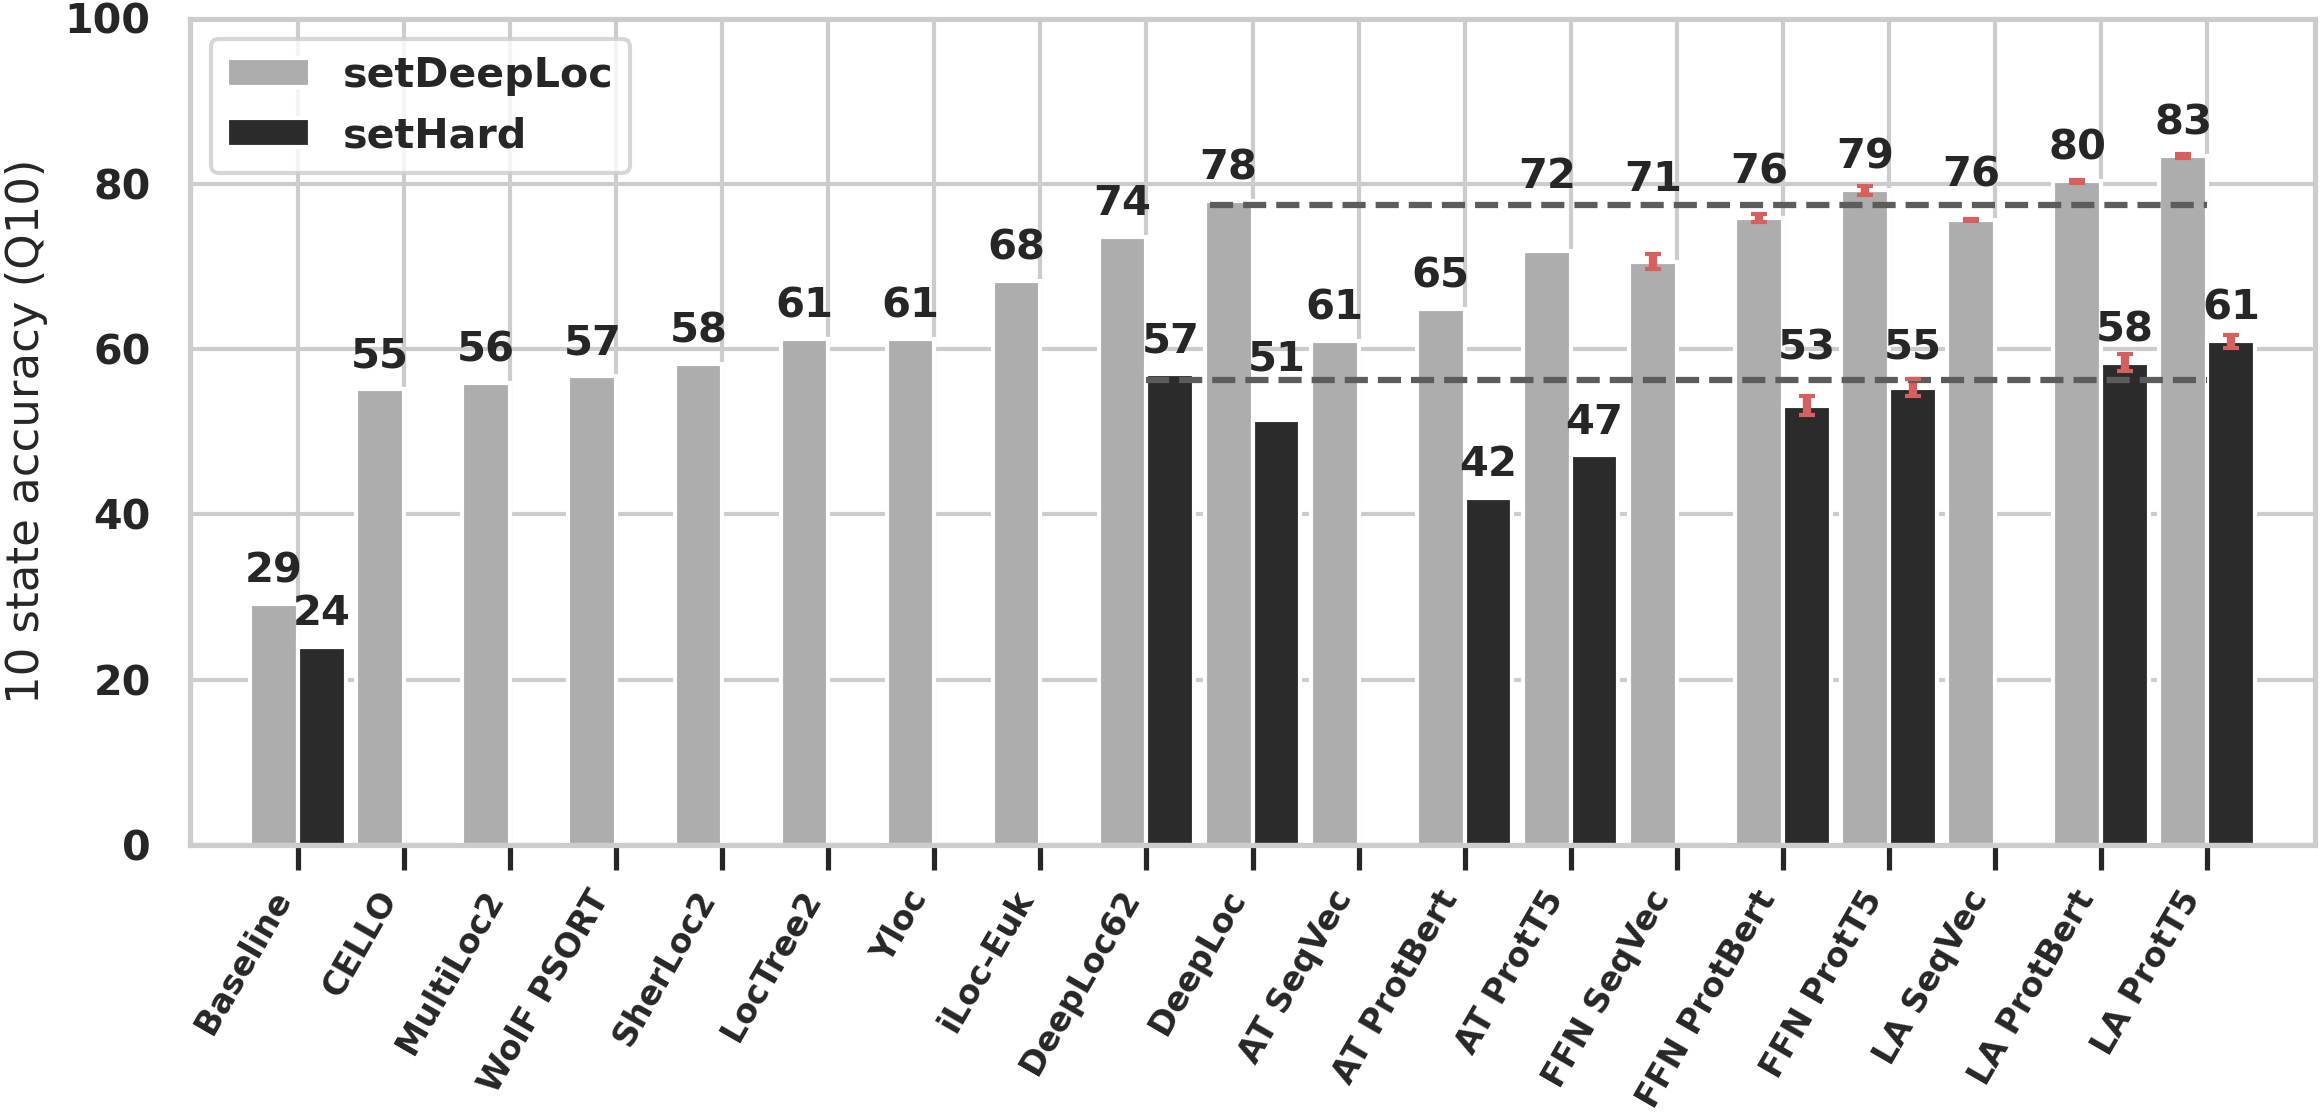
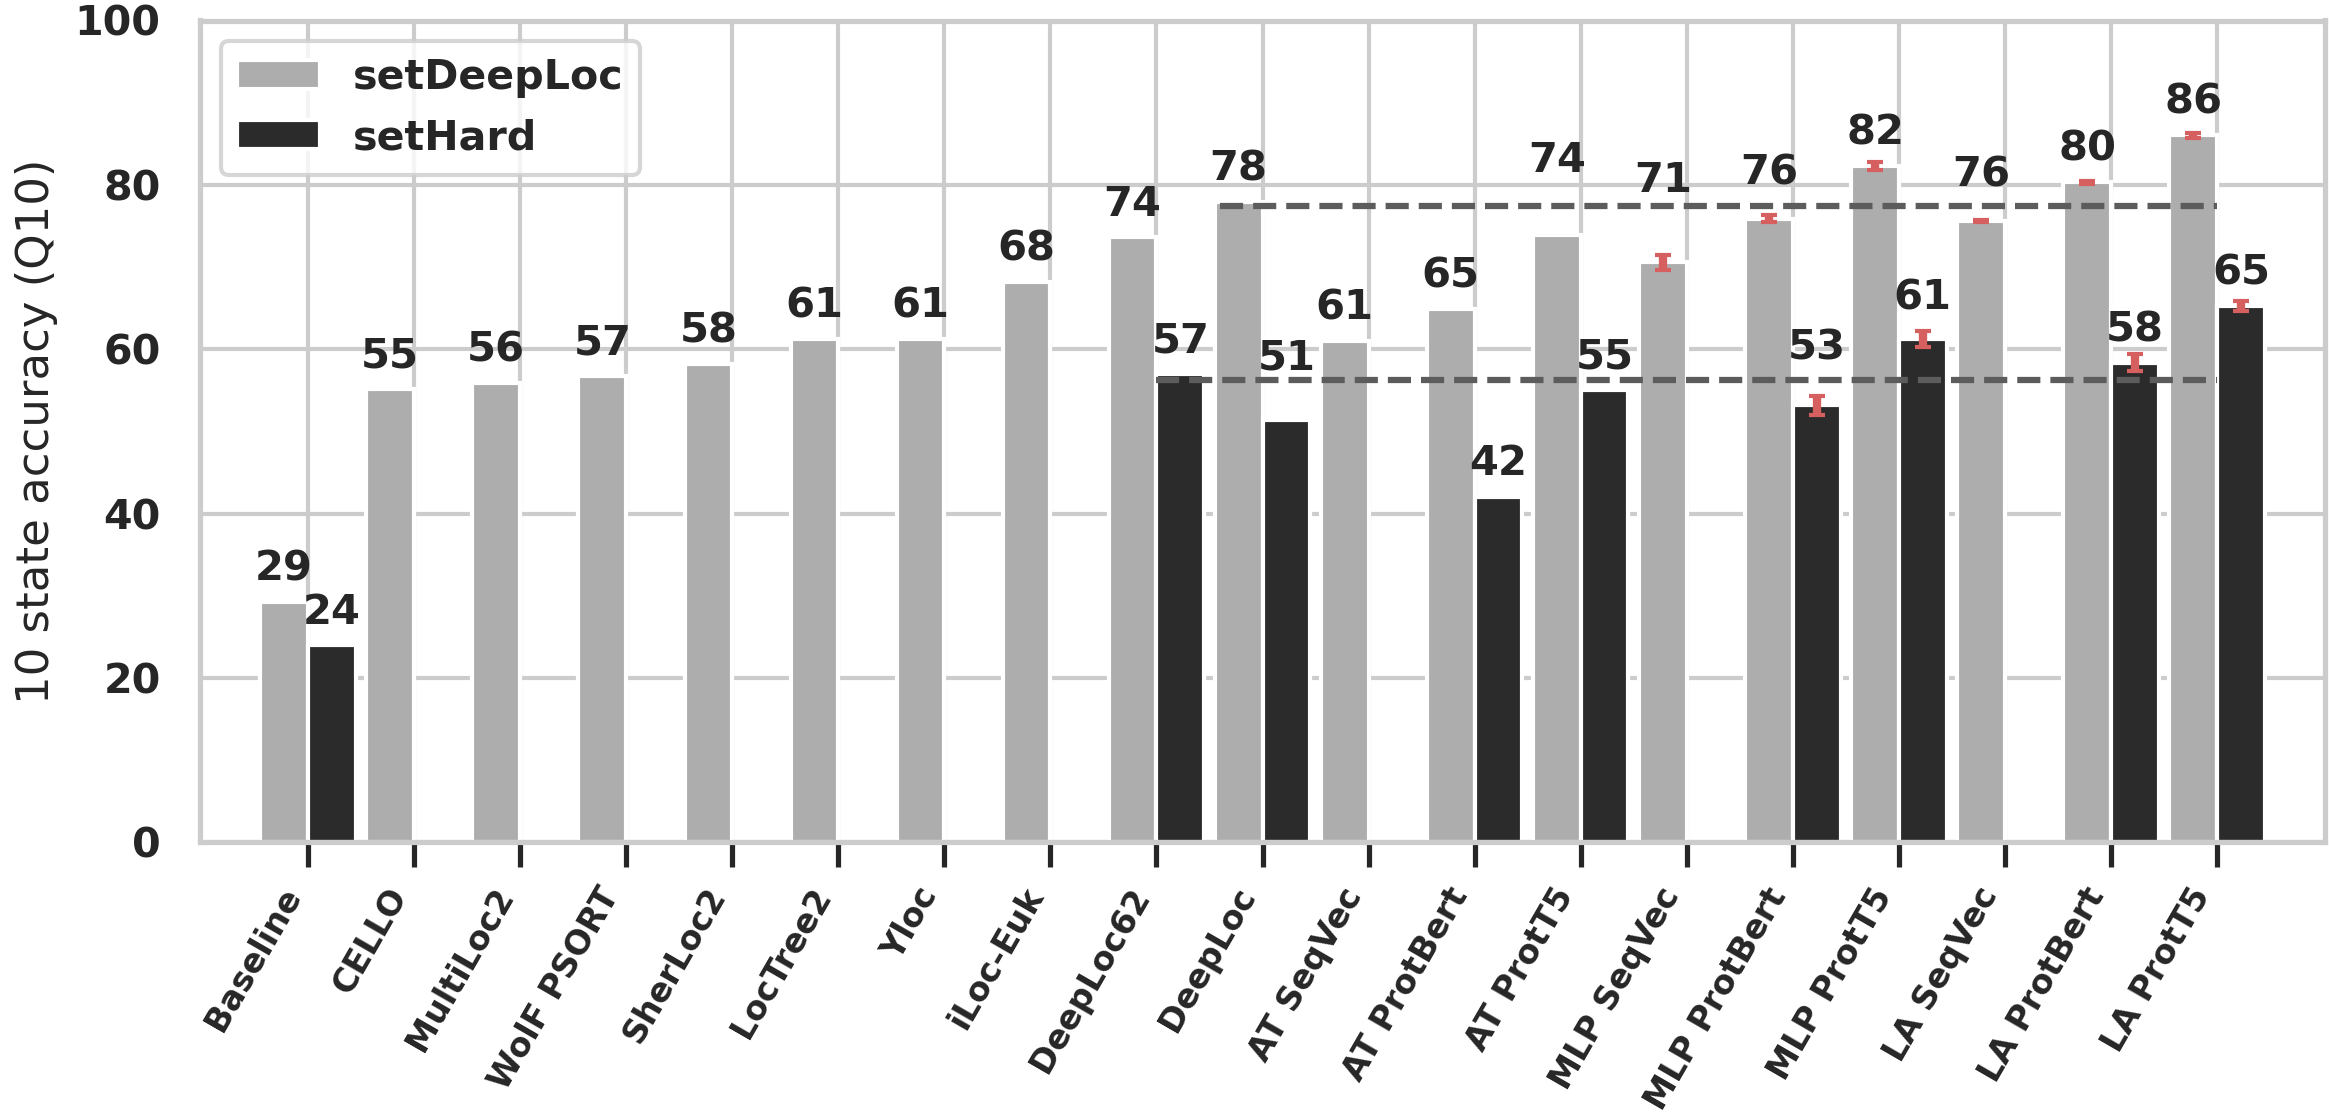
new accuracies with finetuned on UNIREF50

diff --git a/create_plots.py b/create_plots.py
@@ -32,9 +32,9 @@ remapping = {'Baseline': 'Baseline',
              'AT SeqVec': 'AT SeqVec',
              'AT ProtBert': 'AT ProtBert',
              'AT ProtT5': 'AT ProtT5',
-             'FFN SeqVec': 'FFN SeqVec',
-             'FFN ProtBert': 'FFN ProtBert',
-             'FFN ProtT5': 'FFN ProtT5',
+             'FFN SeqVec': 'MLP SeqVec',
+             'FFN ProtBert': 'MLP ProtBert',
+             'FFN ProtT5': 'MLP ProtT5',
              'LA SeqVec': 'LA SeqVec',
              'LA ProtBert': 'LA ProtBert',
              'LA ProtT5': 'LA ProtT5'}

diff --git a/inference.py b/inference.py
@@ -38,7 +38,7 @@ def inference(args):
 
 def parse_arguments():
     p = argparse.ArgumentParser()
-    p.add_argument('--config', type=argparse.FileType(mode='r'), default='configs/inference_hard_set.yaml')
+    p.add_argument('--config', type=argparse.FileType(mode='r'), default='configs/inference_deeploc.yaml')
     p.add_argument('--checkpoints_list', default=[],
                    help='if there are paths specified here, they all are evaluated')
     p.add_argument('--output_files_name', type=str, default='inference',

diff --git a/datasets/embeddings_localization_dataset.py b/datasets/embeddings_localization_dataset.py
@@ -57,7 +57,6 @@ class EmbeddingsLocalizationDataset(Dataset):
                 id = str(record.description)
             else:
                 raise Exception('Unknown key_format: ', key_format)
-            # TODO: remove that one sequence agian
             if len(record.seq) <= max_length and id != 'Q9W596 Cytoplasm-U new_test_set':
                 if self.embedding_mode == 'onehot':
                     amino_acid_ids = []
